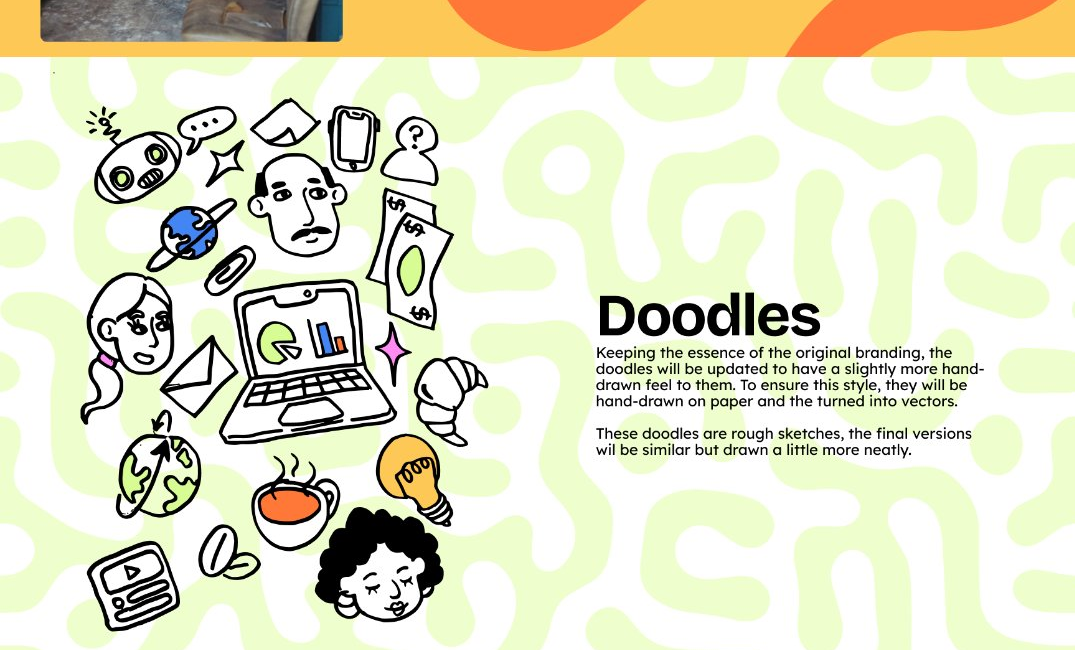
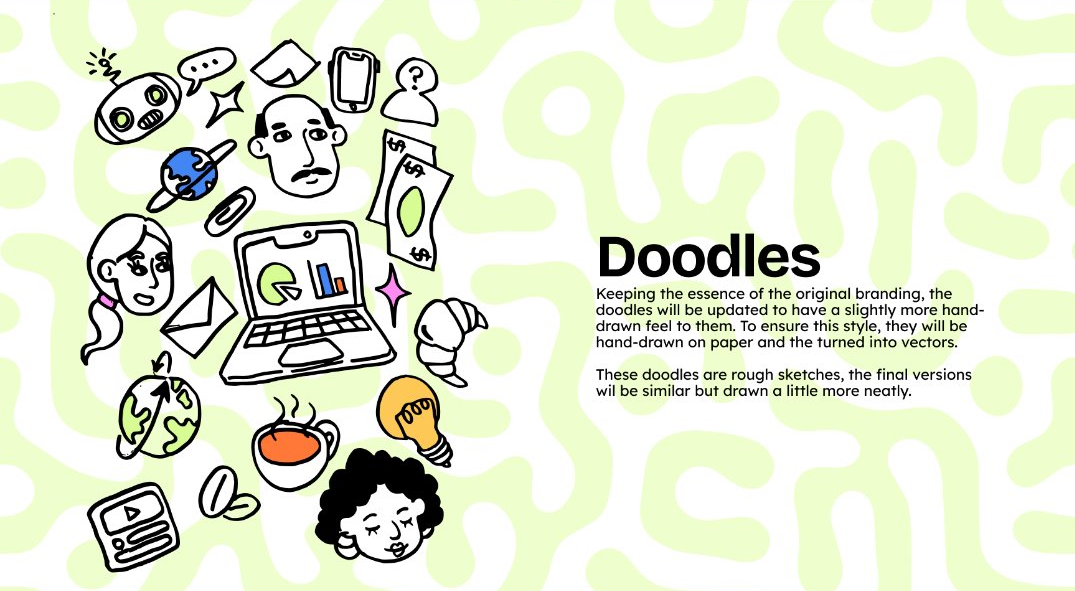
Fix pattern selection (01/03/05), trim bleed on doodles/colors-expanded, tighten H1 card grid

diff --git a/app/brand/visual/page.tsx b/app/brand/visual/page.tsx
@@ -171,24 +171,38 @@ export default function BrandVisualPage() {
           content.
         </p>
         <div className="mt-4 grid gap-3 sm:grid-cols-2">
-          {[1, 2, 4].map((n) => (
-            <div key={n} className="xoopah-card overflow-hidden">
-              {/* eslint-disable-next-line @next/next/no-img-element */}
-              <img
-                src={`/brand/pattern-0${n}.png`}
-                alt={`Pattern ${n < 10 ? "0" + n : n}`}
-                className="w-full"
-              />
-              <p className="px-4 py-2 text-xs font-semibold text-black/50">
-                Pattern {String(n).padStart(2, "0")}
-              </p>
-            </div>
-          ))}
+          {[1, 3, 5].map((n) => {
+            const broken = n === 3 || n === 5;
+            return (
+              <div key={n} className="xoopah-card overflow-hidden">
+                {broken ? (
+                  <div className="flex h-40 flex-col items-center justify-center gap-2 bg-black/5 p-6 text-center">
+                    <p className="text-sm font-semibold text-black/60">
+                      Pattern {String(n).padStart(2, "0")} needs re-uploading
+                    </p>
+                    <p className="text-xs text-black/40">
+                      The last export of this file was corrupted — please
+                      share the image again and I&apos;ll crop it properly.
+                    </p>
+                  </div>
+                ) : (
+                  // eslint-disable-next-line @next/next/no-img-element
+                  <img
+                    src={`/brand/pattern-0${n}.png`}
+                    alt={`Pattern ${n < 10 ? "0" + n : n}`}
+                    className="w-full"
+                  />
+                )}
+                <p className="px-4 py-2 text-xs font-semibold text-black/50">
+                  Pattern {String(n).padStart(2, "0")}
+                </p>
+              </div>
+            );
+          })}
         </div>
         <p className="mt-2 text-xs text-black/40">
-          WIP — not fully ratified. Pattern 03 and Pattern 05, and the black
-          logo variant, were corrupted in the last export and are hidden
-          until they're re-pulled from the source brand deck.
+          Patterns 01, 03, and 05 are the selected set from the new
+          branding. 03 and 05 need to be re-uploaded to display correctly.
         </p>
       </div>
 

diff --git a/components/PlaceholderPage.tsx b/components/PlaceholderPage.tsx
@@ -28,7 +28,7 @@ export default function PlaceholderPage({
   squareCards?: boolean;
 }) {
   return (
-    <div className="space-y-8">
+    <div className="space-y-5">
       <div>
         {crumbs && crumbs.length > 0 && (
           <div className="mb-2 flex flex-wrap items-center gap-1 text-xs text-black/40">
@@ -45,19 +45,19 @@ export default function PlaceholderPage({
         <p className="font-sub text-sm font-semibold uppercase tracking-[0.2em] text-xoopah-blue">
           {eyebrow}
         </p>
-        <h1 className="xoopah-display mt-3 text-3xl text-black">{title}</h1>
+        <h1 className="xoopah-display mt-2 text-2xl text-black sm:text-3xl">{title}</h1>
         <p className="mt-2 max-w-xl text-sm text-black/60">{description}</p>
       </div>
 
       {children && children.length > 0 && squareCards && (
-        <div className="grid gap-5 sm:grid-cols-2 lg:grid-cols-3">
+        <div className="grid gap-4 sm:grid-cols-2 lg:grid-cols-3">
           {children.map((c, i) => (
             <Link
               key={c.href}
               href={c.href}
-              className={`xoopah-card ${ACCENTS[i % ACCENTS.length]} group flex aspect-square flex-col justify-between p-7 pl-9 transition-transform hover:-translate-y-1`}
+              className={`xoopah-card ${ACCENTS[i % ACCENTS.length]} group flex aspect-[4/3] flex-col justify-between p-5 pl-7 transition-transform hover:-translate-y-1`}
             >
-              <span className="font-sub text-xl font-semibold leading-snug text-black">{c.label}</span>
+              <span className="font-sub text-lg font-semibold leading-snug text-black">{c.label}</span>
               <span className="text-sm font-semibold text-xoopah-blue group-hover:underline">
                 Open →
               </span>